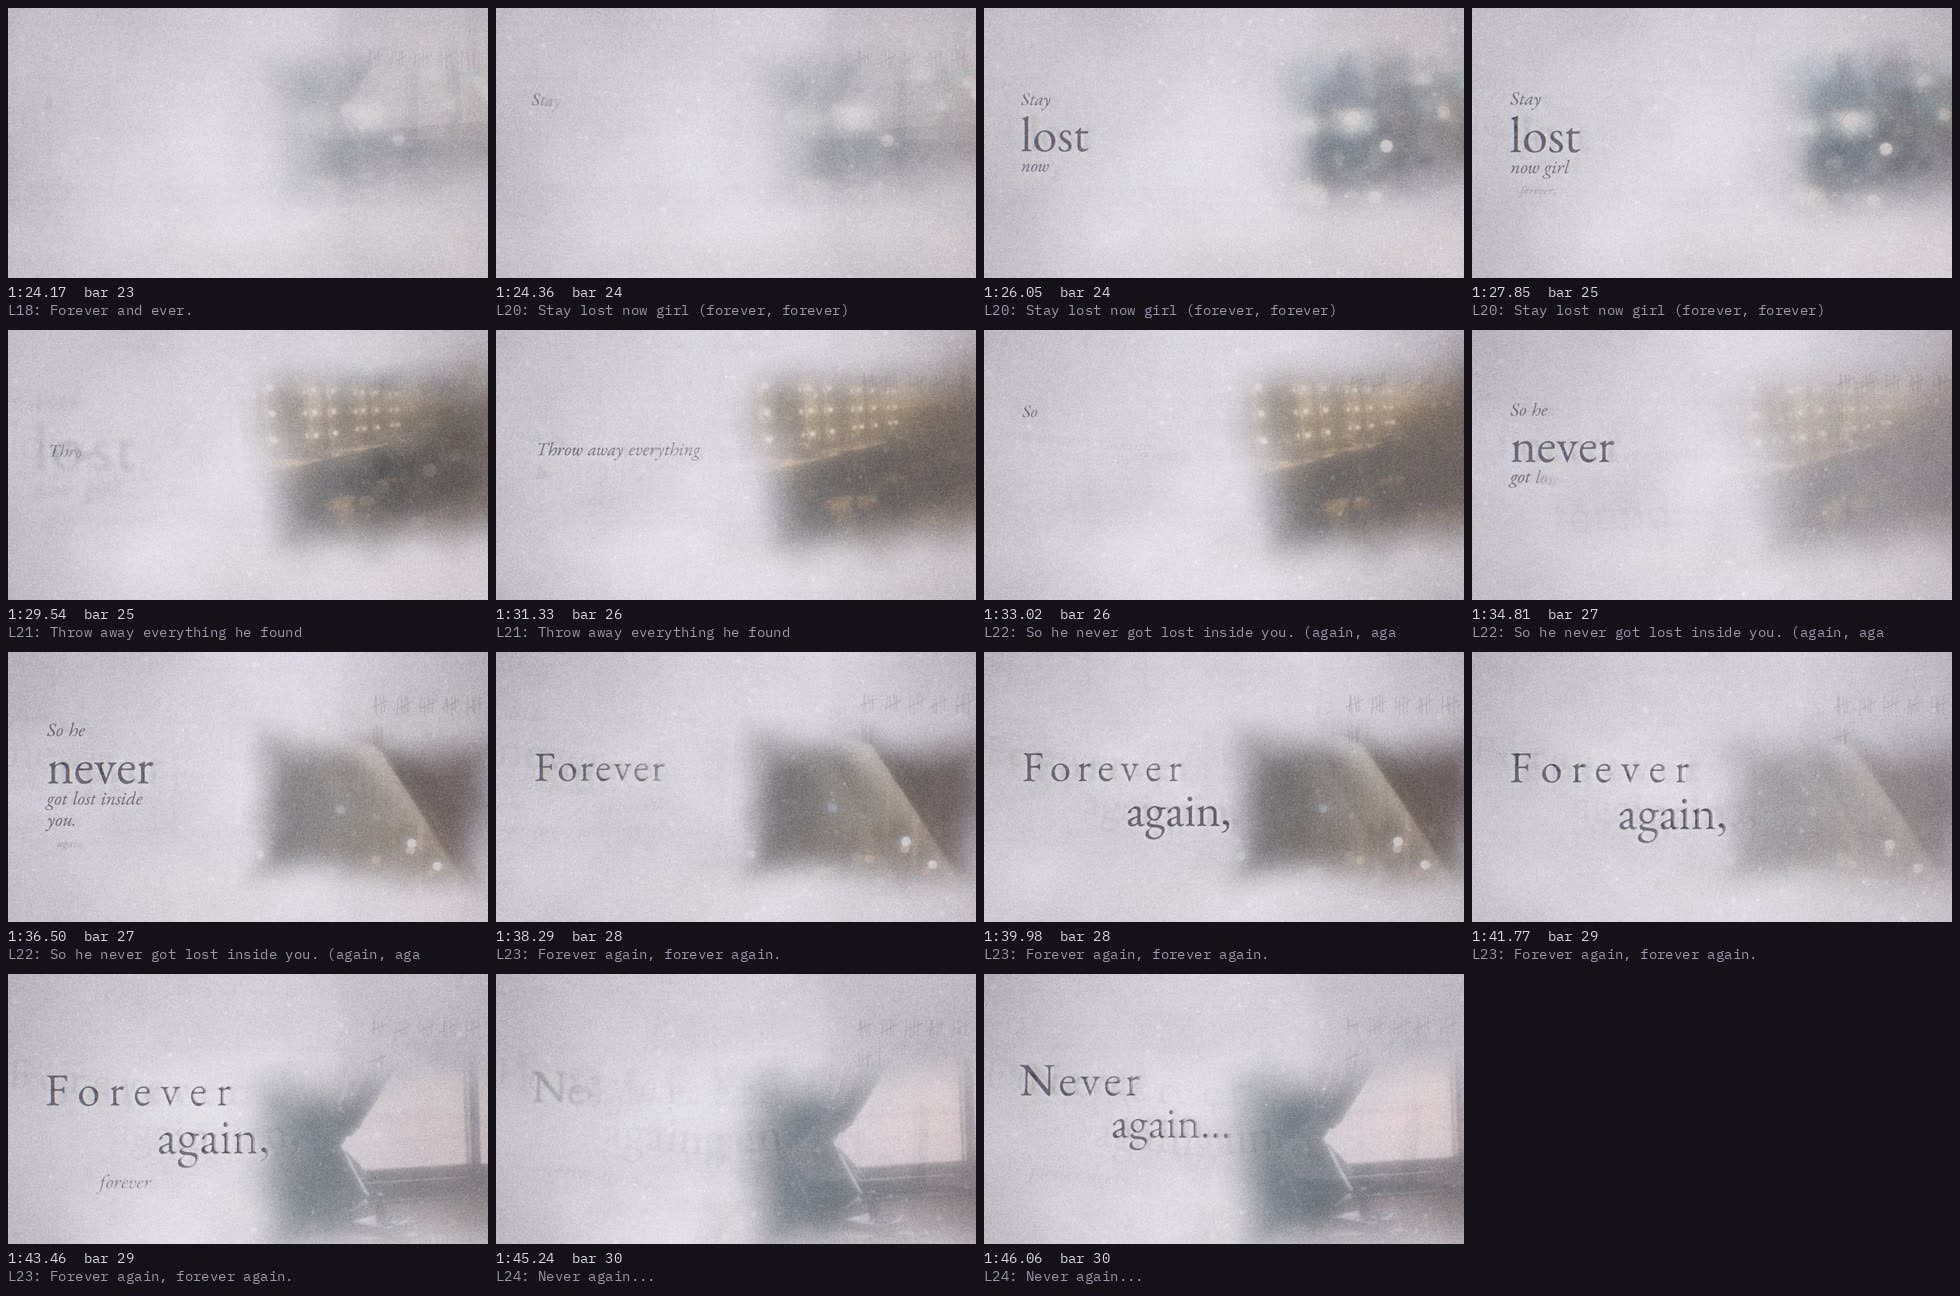
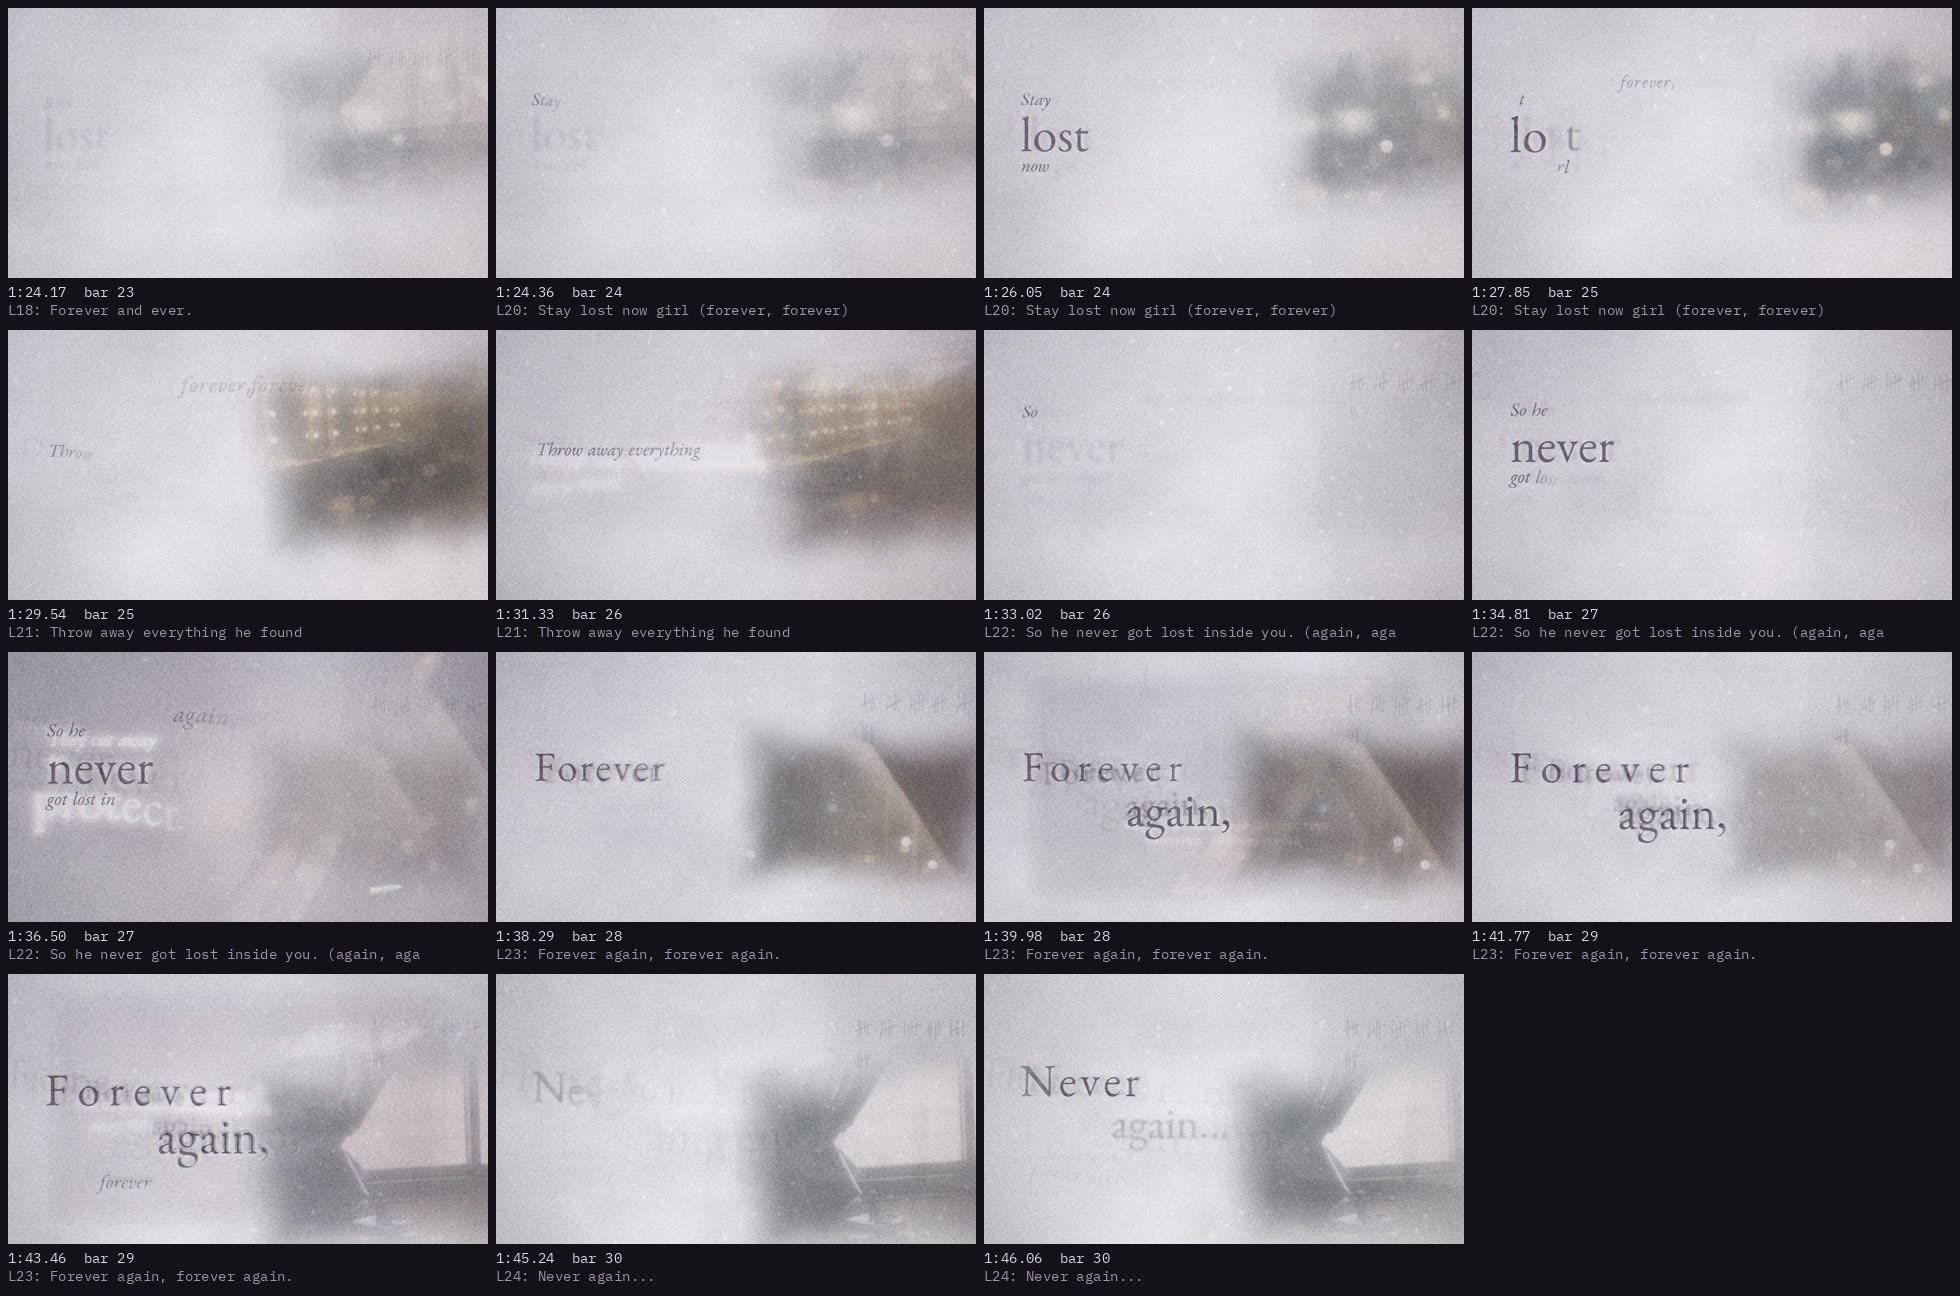
Refrain I (prophecy) rendered for review; storyboard updated
Claude-Session: https://claude.ai/code/session_013aPae8dR11r7xw8o95d9Yi

diff --git a/storyboard/index.html b/storyboard/index.html
@@ -150,7 +150,7 @@ ol.steps li::marker { font: 600 0.85rem var(--mono); color: var(--ink-2); }
   </video>
   <figcaption><b>Refrain I: Stay lost now girl</b>
     <span class="tc">1:24.2 → 1:46.3 · bars 24–30</span>
-    <span class="note">Forever against again: &#x27;Forever&#x27; keeps stretching, &#x27;again,&#x27; lands, the repeat trails small; then &#x27;Never&#x27; against &#x27;again...&#x27;. Web copy at 720p; the 1080p master passed QA and ffprobe. <a href="renders/refrain_i_contact.jpg">Contact sheet</a></span></figcaption>
+    <span class="note">Rebuilt as prophecy: she sees the future and tries to unmake it. Words appear faintly before they are sung; &#x27;stay lost&#x27; is unwritten letter by letter; the memories are thrown out; the line rewinds and snaps forward on each &#x27;again&#x27; with flashes of the future; &#x27;forever again&#x27; recedes in a beat-stepped tunnel; a cold stop on &#x27;Never&#x27;. Web copy at 720p; the 1080p master passed QA and ffprobe. <a href="renders/refrain_i_contact.jpg">Contact sheet</a></span></figcaption>
 </figure>
 <figure class="render" id="render-verse_a_line6">
   <video controls playsinline preload="metadata" poster="renders/verse_a_line6_poster.jpg" width="1280" height="720">

diff --git a/storyboard/spec.py b/storyboard/spec.py
@@ -203,7 +203,7 @@ STYLE_FRAMES = [
 # Sections built so far: (slug, section name, note shown under the player)
 RENDERS = [
     ("refrain_i", "Refrain I: Stay lost now girl",
-     "Forever against again: 'Forever' keeps stretching, 'again,' lands, the repeat trails small; then 'Never' against 'again...'. Web copy at 720p; the 1080p master passed QA and ffprobe."),
+     "Rebuilt as prophecy: she sees the future and tries to unmake it. Words appear faintly before they are sung; 'stay lost' is unwritten letter by letter; the memories are thrown out; the line rewinds and snaps forward on each 'again' with flashes of the future; 'forever again' recedes in a beat-stepped tunnel; a cold stop on 'Never'. Web copy at 720p; the 1080p master passed QA and ffprobe."),
     ("verse_a_line6", "Verse A: Through eyes",
      "Revised line: 'A hand, as ever as it was once'. 'ever' and 'once' set against each other on a diagonal; 'ever' keeps opening, 'once' lands. The Verse A clip below still has the old version of this line.",
      (34.5, 44.5)),
